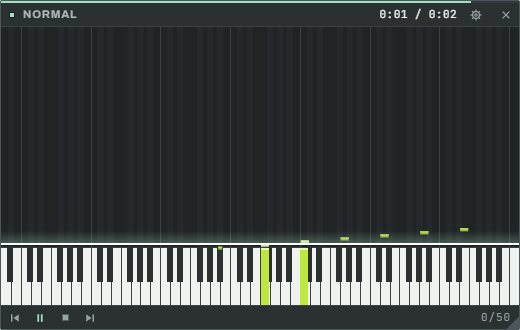
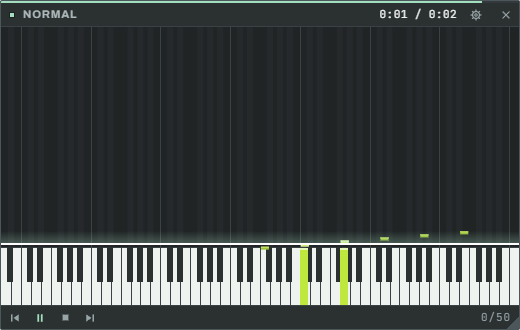
tests: perch_focus refuses to share the single-instance lock
All Tauri builds share the app identifier, so another running build would
swallow this launch or route its own launch into ours. Refuse up front, and
assert afterwards that the boot log shows one boot, no second-instance and
our own hotkeys. Re-run clean: 37 pass, 0 fail.

diff --git a/src-tauri/tests/perch_focus.rs b/src-tauri/tests/perch_focus.rs
@@ -502,6 +502,11 @@ fn perch_never_takes_the_foreground() {
     let midi = std::path::absolute(&midi).unwrap();
     assert!(midi.is_file(), "{} missing", midi.display());
     assert!(notepads().is_empty(), "a Notepad is already open; not touching it. Close it and run again.");
+    // Every Tauri build shares the app identifier, so single-instance would
+    // swallow this launch (or route another build's launch into ours), and a
+    // second instance also holds Ctrl+Alt+P/O. Refuse rather than measure that.
+    let running = Command::new("tasklist").args(["/FI", "IMAGENAME eq midi-studio.exe", "/NH"]).output().map(|o| String::from_utf8_lossy(&o.stdout).to_lowercase()).unwrap_or_default();
+    assert!(!running.contains("midi-studio.exe"), "another midi-studio.exe is running; its single-instance lock would swallow or hijack this run");
     let boot_log = user_data.join("boot.log");
     let _ = std::fs::remove_file(&boot_log);
     // Perch's remembered per-mode bounds would make the expected sizes depend
@@ -817,6 +822,9 @@ fn perch_never_takes_the_foreground() {
         let _ = app.wait();
     }
     rep.line(format!("app exited by itself: {exited}"));
+    let log = std::fs::read_to_string(&boot_log).unwrap_or_default();
+    let clean = !log.contains("second-instance") && !log.contains("unavailable") && log.matches("--- boot ---").count() == 1;
+    rep.result(clean, "Z1 run was not contaminated (no second-instance routed in, hotkeys were ours, one boot)", String::new());
     rep.line(format!("\nTOTAL: {} pass, {} fail", rep.pass, rep.fail));
     let _ = std::fs::write(&out, rep.lines.join("\n"));
     assert_eq!(rep.fail, 0, "see {}", out.display());
